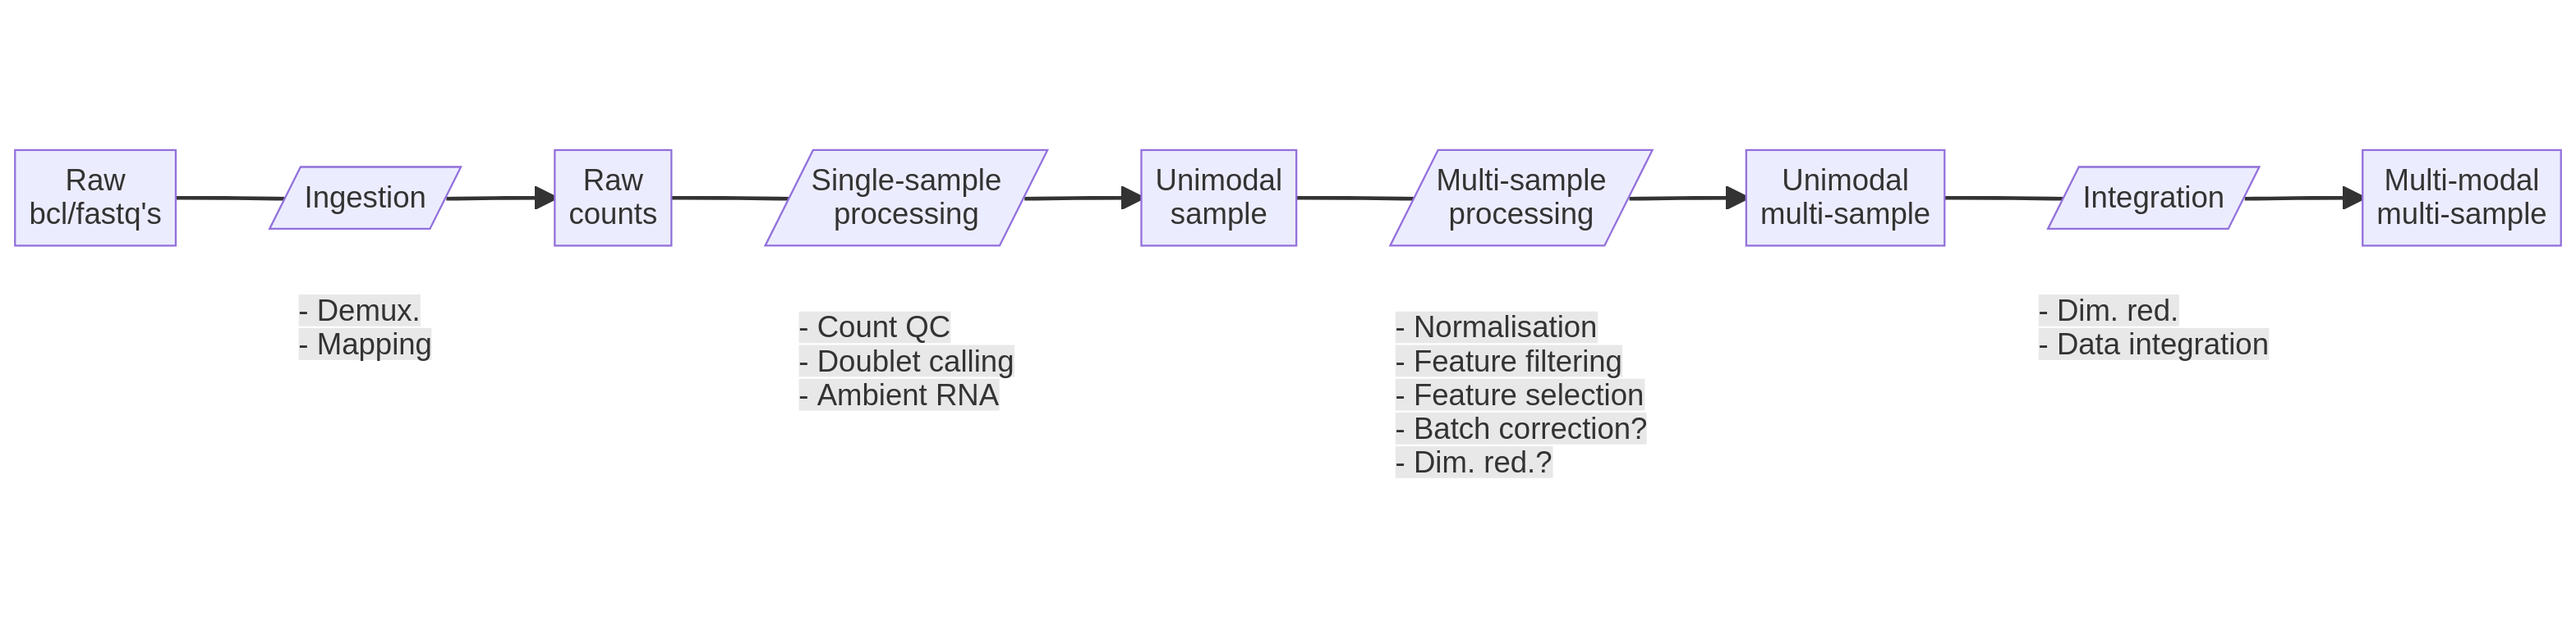
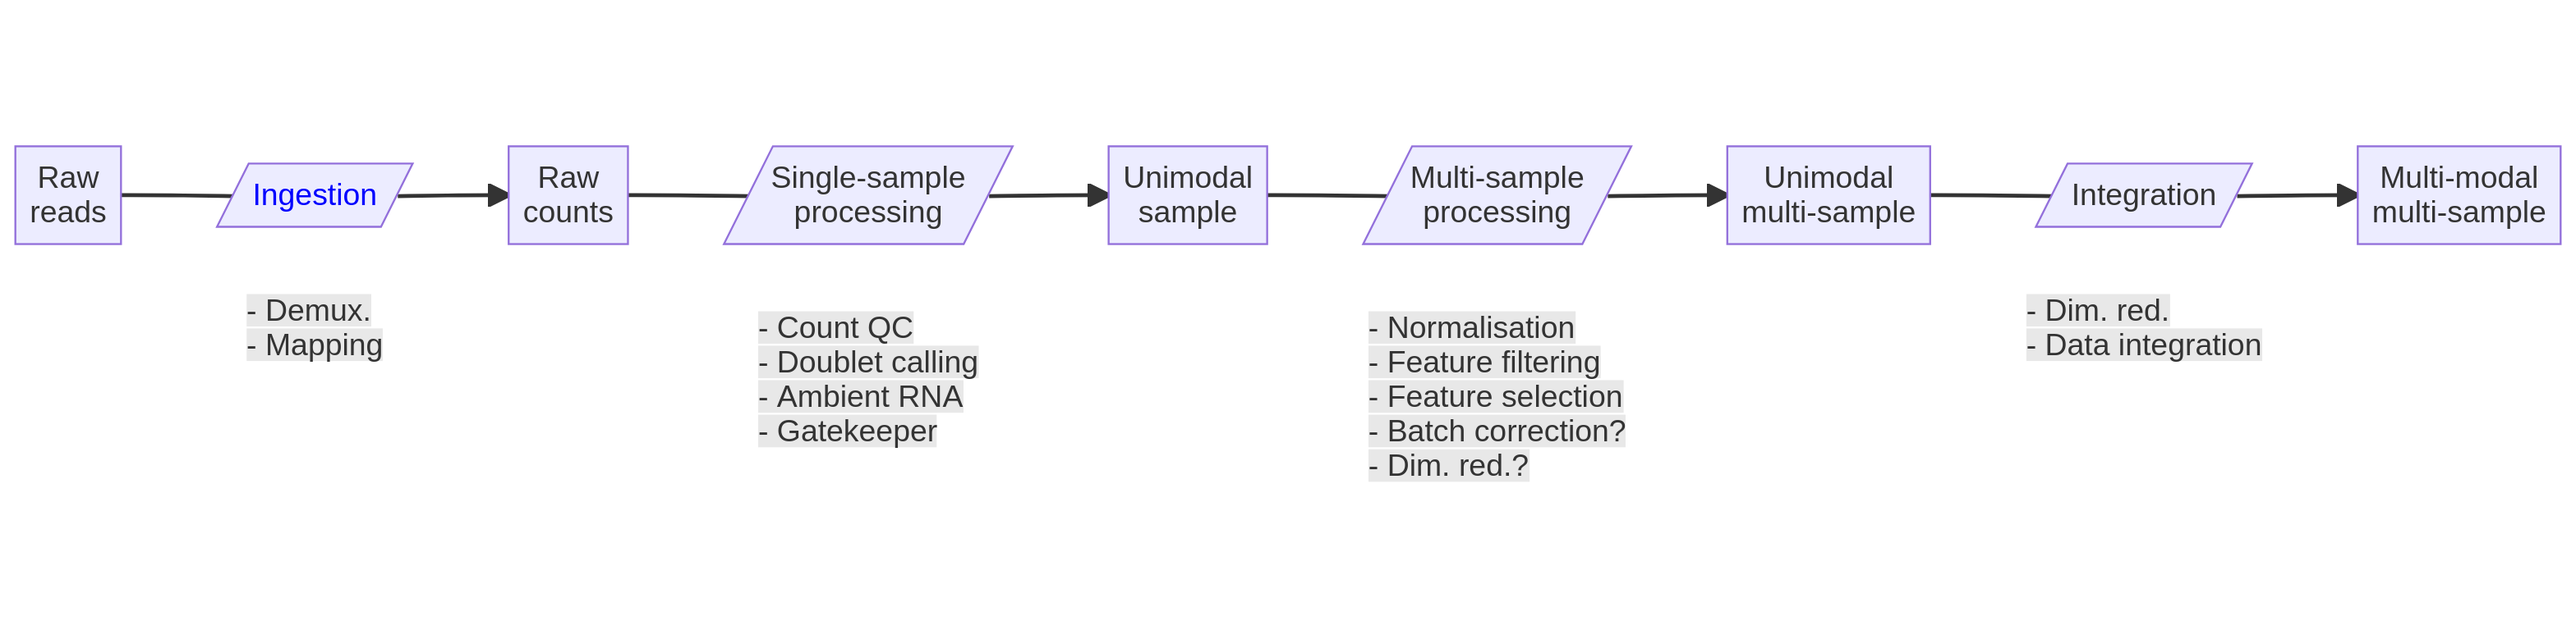
deploy: e1d4e6675f46e10805fc9f5bbc47917e3c16ea64

diff --git a/docs/design.md b/docs/design.md
@@ -5,20 +5,69 @@ Design of OpenPipeline
 
 ## Version 2022-05-30
 
+### Pipeline architecture overview
+
+<div class="column-page">
+
+<div id="fig-architecture">
+
+<p>
+
+<img src="design_files/figure-gfm/mermaid-figure-1.png" data-fig-pos="H"
+style="width:13.97803in;height:2in" />
+
+</p>
+
+Figure 1: Overview single cell processing steps in OpenPipeline.
+Rectangles are data objects, parallelograms are Viash modules or
+subworkflows.
+
+</div>
+
+</div>
+
+### Decisions
+
+-   Try to avoid pipeline metromaps
+    ([Example](https://github.com/nf-core/rnaseq/blob/master/docs/images/nf-core-rnaseq_metro_map_grey.png)).
+
+### Use cases
+
+-   Single sample, unimodal
+
+-   Single sample, multimodal
+
+-   Multiple samples, unimodal
+
+-   Multiple samples, multimodal
+
+### Ingestion
+
+Performs whatever steps necessary to integrate a dataset into the
+pipeline.
+
 <div class="column-page">
 
 <div id="cell-handler-fake-div-1">
 
 <p>
 
-<img src="design_files/figure-gfm/mermaid-figure-1.png" data-fig-pos="H"
-style="width:14.29688in;height:2in" />
+<img src="design_files/figure-gfm/mermaid-figure-2.png" data-fig-pos="H"
+style="width:9.52913in;height:2.32292in" />
 
 </p>
 
 </div>
 
 </div>
+
+`*`: Possible entry points
+
+------------------------------------------------------------------------
+
+------------------------------------------------------------------------
+
+------------------------------------------------------------------------
 
 ## Version 2021-10-13
 
